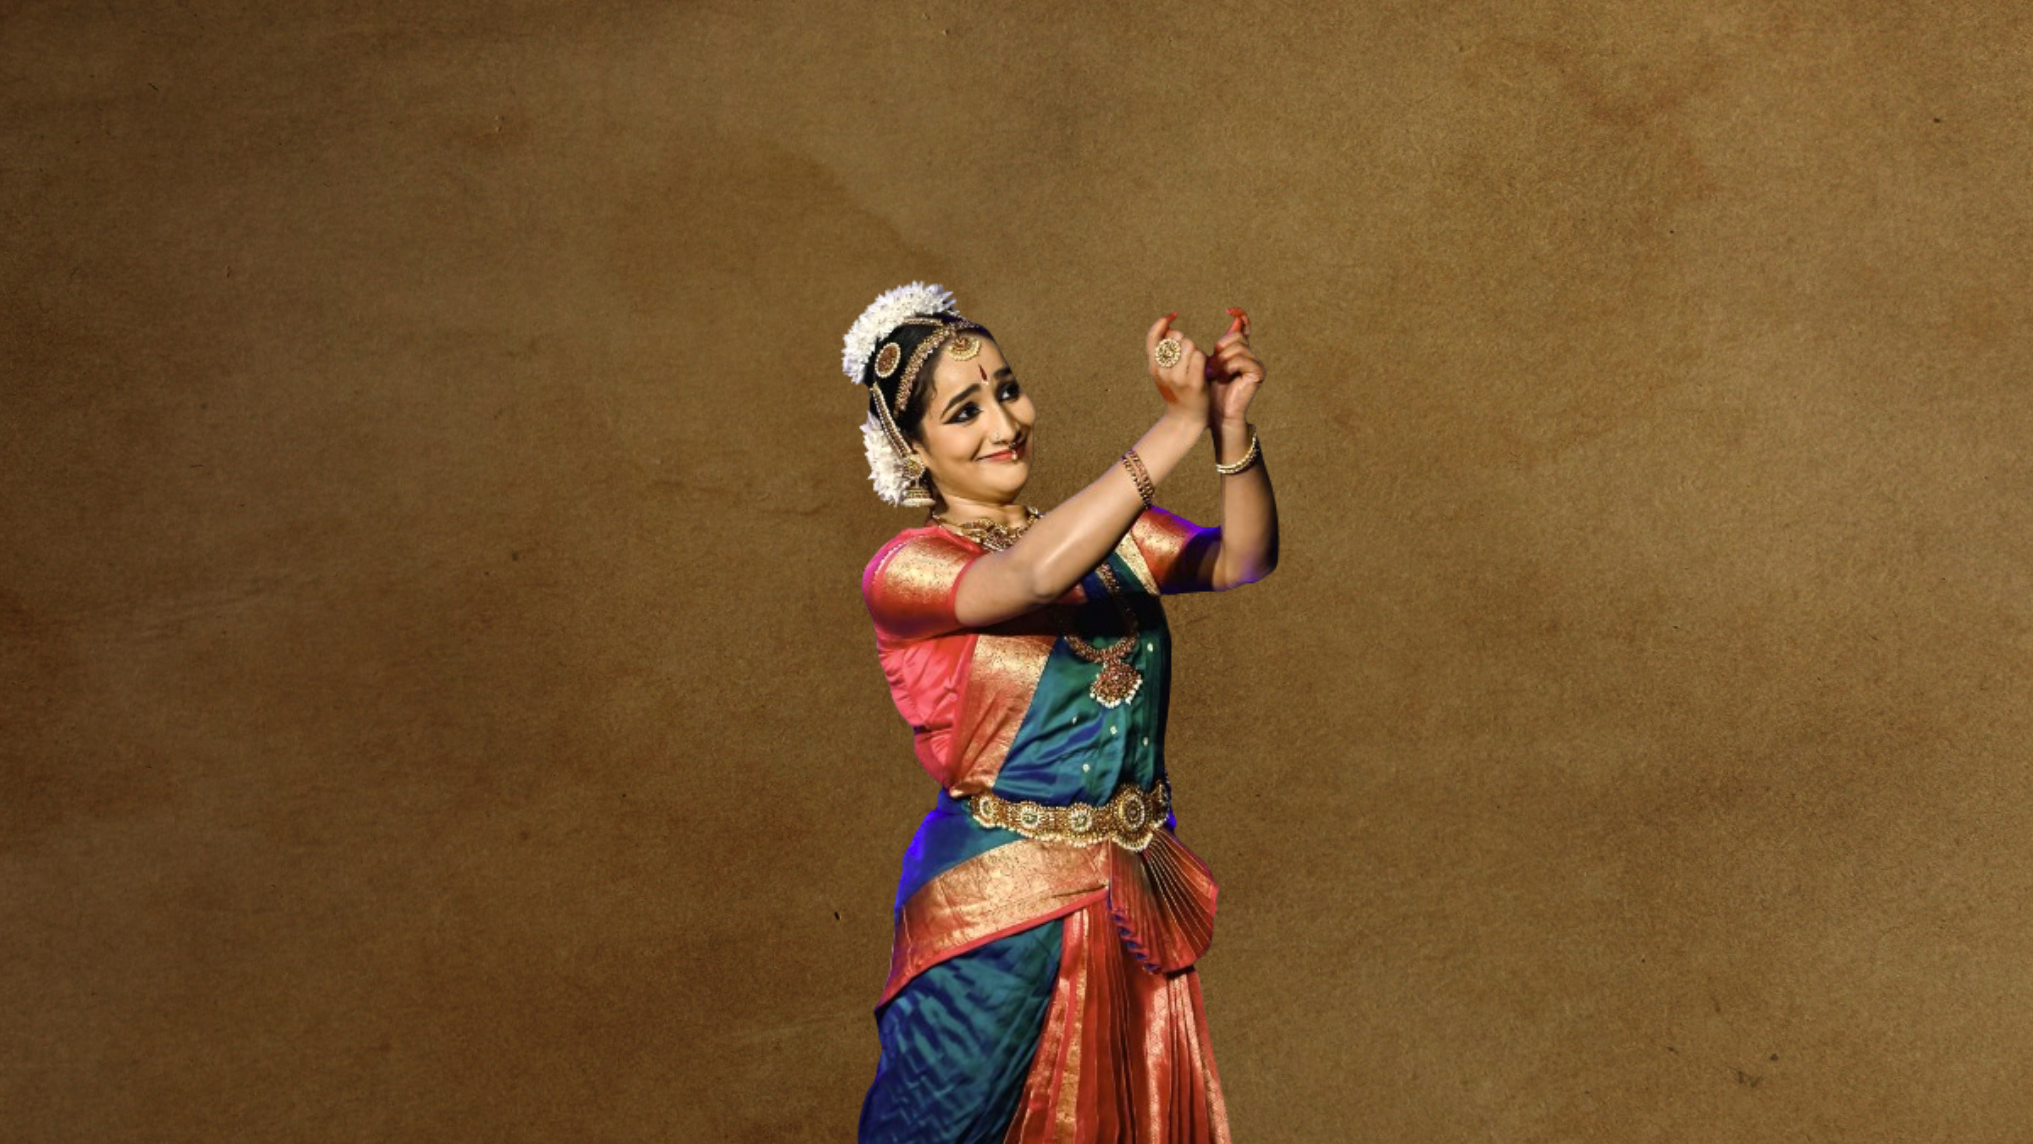
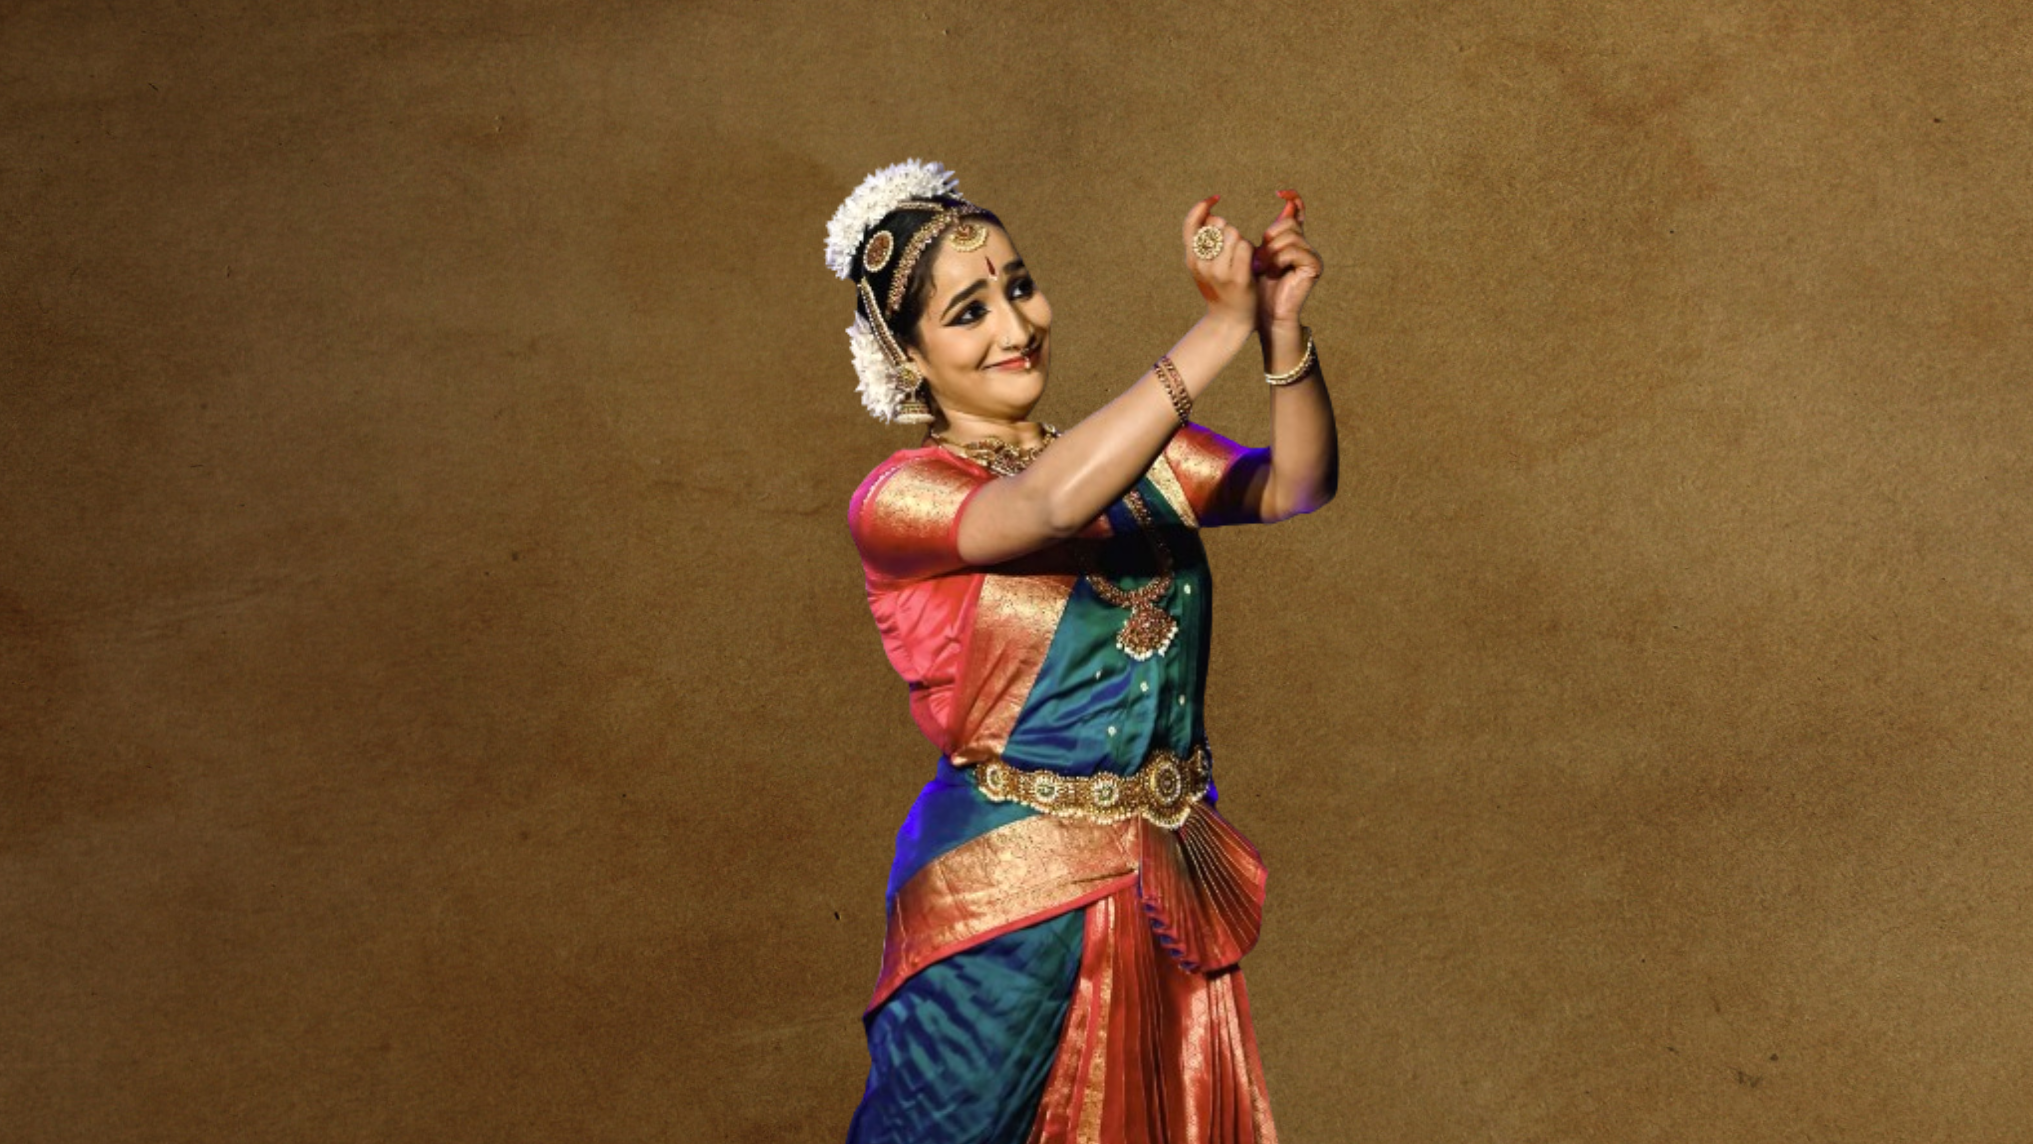
v12

Changed region(s): [[0.4029, 0.1224, 0.6818, 1.0]]

diff --git a/src/components/Hero.jsx b/src/components/Hero.jsx
@@ -196,7 +196,7 @@ const Hero = () => {
   return (
     <section className="w-full min-h-screen flex flex-col items-center justify-start pt-0 pb-0 fade-in" style={{ background: '#EFDFBB' }}>
       {/* Mobile Carousel */}
-      <div className="block md:hidden relative w-full h-[92vh] sm:h-[80vh] max-h-[900px] flex items-center justify-center overflow-hidden shadow-2xl" style={{ backgroundColor: 'black' }}>
+      <div className="block md:hidden relative w-full h-[92vh] sm:h-[80vh] max-h-[900px] flex items-center justify-center overflow-hidden shadow-2xl">
         <button
           onClick={prevSlide}
           className="hidden sm:block absolute left-4 top-1/2 -translate-y-1/2 z-10 bg-[#4A7766]/90 hover:bg-[#C59C79] hover:text-[#4A7766] text-[#ECE7E2] rounded-full p-3 shadow-lg transition-all duration-300 hover:scale-110 hover-lift"
@@ -209,7 +209,7 @@ const Hero = () => {
           alt={`Performance ${current + 1}`}
           className="w-full h-full select-none transition-all duration-700 ease-in-out scale-in"
           style={{
-            objectFit: 'contain',
+            objectFit: 'cover',
             objectPosition: 'center',
             maxHeight: '100%',
             maxWidth: '100%',
@@ -217,7 +217,6 @@ const Hero = () => {
             height: '100%',
             opacity: 1,
             transition: 'opacity 0.7s, transform 0.7s',
-            backgroundColor: 'black',
             transform: current === 1 ? 'translateX(-2px)' : 'none'
           }}
         />
@@ -284,7 +283,7 @@ const Hero = () => {
       {/* Description Section - Clean Two-Column Layout with Scroll Animations */}
       <div 
         ref={descriptionRef}
-        className="w-full"
+        className="w-full -mt-6 md:mt-0"
         style={{ 
           background: 'linear-gradient(135deg, #722F37 0%, #8B3A42 50%, #722F37 100%)',
           color: '#F5F5DC',
